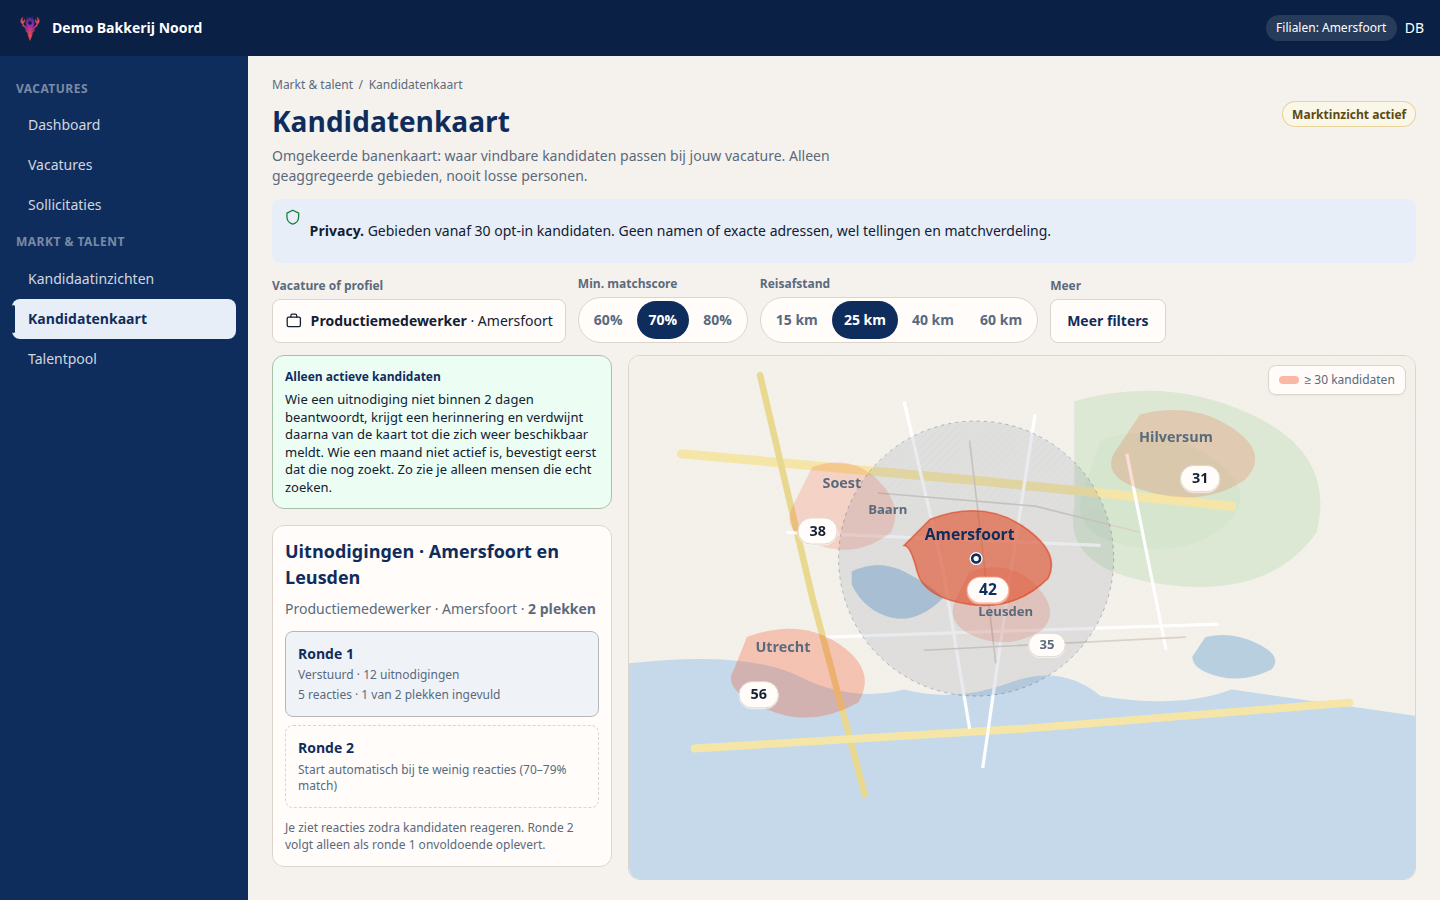
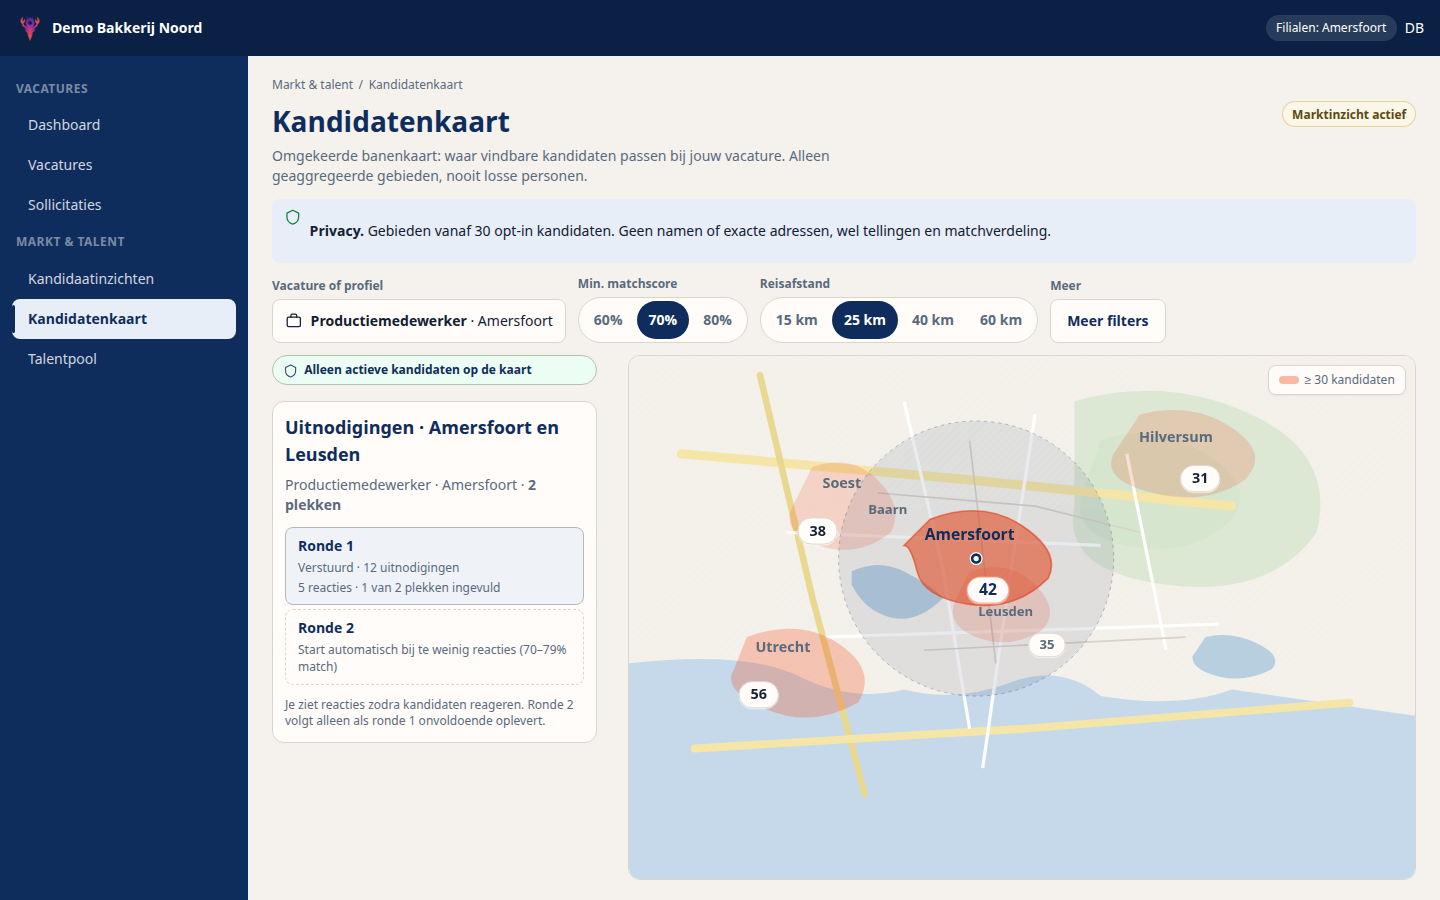
Fix invite-status desktop panel clipping with active-candidates chip.
Replace full explainer with one-line chip on B invite status list column;
tighter round spacing and list scroll fallback. Recaptured status PNGs.

Changed region(s): [[0.1875, 0.4044, 0.4375, 0.8711], [0.1875, 0.9022, 0.4062, 0.9644]]

diff --git a/docs/mockups/kandidatenkaart/pages/b-invite-status-vol.html b/docs/mockups/kandidatenkaart/pages/b-invite-status-vol.html
@@ -29,7 +29,7 @@
       <a class="wg-sidebar__link" href="#">Talentpool</a>
     </aside>
     <main class="wg-main">
-      <div class="kk-page">
+      <div class="kk-page kk-page--invite-status">
       <div class="kk-page__chrome kk-page__chrome--desktop">
       <nav class="kk-crumbs" aria-label="Kruimelpad">
         <span>Markt &amp; talent</span><span>/</span><span>Kandidatenkaart</span>
@@ -100,10 +100,10 @@
         </div>
       </div>
       <div class="kk-layout-b">
-        <div class="kk-layout-b__list"><div class="kk-active-sell">
-    <h3>Alleen actieve kandidaten</h3>
-    <p>Wie een uitnodiging niet binnen 2 dagen beantwoordt, krijgt een herinnering en verdwijnt daarna van de kaart tot die zich weer beschikbaar meldt. Wie een maand niet actief is, bevestigt eerst dat die nog zoekt. Zo zie je alleen mensen die echt zoeken.</p>
-  </div><div class="kk-panel kk-invite-status">
+        <div class="kk-layout-b__list kk-layout-b__list--invite-status"><p class="kk-active-chip">
+      <svg class="i" viewBox="0 0 24 24" aria-hidden="true"><path d="M12 3l8 4v5c0 5-3.5 9-8 10-4.5-1-8-5-8-10V7l8-4z"/></svg>
+      <span>Alleen actieve kandidaten op de kaart</span>
+    </p><div class="kk-panel kk-invite-status">
             <div class="kk-invite-status__head">
               <h2>Uitnodigingen · Amersfoort en Leusden</h2>
               <span class="kk-invite-status__badge">Vacature vol</span>
@@ -208,7 +208,7 @@
           
         </div></div>
       </div>
-      <div class="kk-mobile-sheet kk-mobile-sheet--b"><div class="kk-mobile-sheet__body kk-mobile-sheet__body--invite-status"><div class="kk-panel kk-invite-status">
+      <div class="kk-mobile-sheet kk-mobile-sheet--b kk-mobile-sheet--invite-status"><div class="kk-mobile-sheet__body kk-mobile-sheet__body--invite-status"><div class="kk-panel kk-invite-status">
             <div class="kk-invite-status__head">
               <h2>Uitnodigingen · Amersfoort en Leusden</h2>
               <span class="kk-invite-status__badge">Vacature vol</span>

diff --git a/docs/mockups/kandidatenkaart/pages/b-invite-status.html b/docs/mockups/kandidatenkaart/pages/b-invite-status.html
@@ -29,7 +29,7 @@
       <a class="wg-sidebar__link" href="#">Talentpool</a>
     </aside>
     <main class="wg-main">
-      <div class="kk-page">
+      <div class="kk-page kk-page--invite-status">
       <div class="kk-page__chrome kk-page__chrome--desktop">
       <nav class="kk-crumbs" aria-label="Kruimelpad">
         <span>Markt &amp; talent</span><span>/</span><span>Kandidatenkaart</span>
@@ -100,10 +100,10 @@
         </div>
       </div>
       <div class="kk-layout-b">
-        <div class="kk-layout-b__list"><div class="kk-active-sell">
-    <h3>Alleen actieve kandidaten</h3>
-    <p>Wie een uitnodiging niet binnen 2 dagen beantwoordt, krijgt een herinnering en verdwijnt daarna van de kaart tot die zich weer beschikbaar meldt. Wie een maand niet actief is, bevestigt eerst dat die nog zoekt. Zo zie je alleen mensen die echt zoeken.</p>
-  </div><div class="kk-panel kk-invite-status">
+        <div class="kk-layout-b__list kk-layout-b__list--invite-status"><p class="kk-active-chip">
+      <svg class="i" viewBox="0 0 24 24" aria-hidden="true"><path d="M12 3l8 4v5c0 5-3.5 9-8 10-4.5-1-8-5-8-10V7l8-4z"/></svg>
+      <span>Alleen actieve kandidaten op de kaart</span>
+    </p><div class="kk-panel kk-invite-status">
             <div class="kk-invite-status__head">
               <h2>Uitnodigingen · Amersfoort en Leusden</h2>
               
@@ -208,7 +208,7 @@
           
         </div></div>
       </div>
-      <div class="kk-mobile-sheet kk-mobile-sheet--b"><div class="kk-mobile-sheet__body kk-mobile-sheet__body--invite-status"><div class="kk-panel kk-invite-status">
+      <div class="kk-mobile-sheet kk-mobile-sheet--b kk-mobile-sheet--invite-status"><div class="kk-mobile-sheet__body kk-mobile-sheet__body--invite-status"><div class="kk-panel kk-invite-status">
             <div class="kk-invite-status__head">
               <h2>Uitnodigingen · Amersfoort en Leusden</h2>
               

diff --git a/docs/mockups/kandidatenkaart/shared/kk.css b/docs/mockups/kandidatenkaart/shared/kk.css
@@ -977,6 +977,35 @@ html.vp-mobile body {
     color: var(--muted);
 }
 
+.kk-active-chip {
+    display: flex;
+    align-items: center;
+    gap: 0.35rem;
+    margin: 0 0 var(--space-2);
+    padding: 0.4rem 0.65rem;
+    border-radius: var(--radius-pill);
+    border: 1px solid color-mix(in srgb, var(--success) 22%, var(--border));
+    background: var(--success-soft);
+    font-size: var(--text-xs);
+    font-weight: 600;
+    color: var(--brand);
+    line-height: 1.3;
+    flex-shrink: 0;
+}
+
+.kk-active-chip .i {
+    width: 0.95rem;
+    height: 0.95rem;
+    opacity: 0.85;
+}
+
+.kk-active-chip span {
+    min-width: 0;
+    white-space: nowrap;
+    overflow: hidden;
+    text-overflow: ellipsis;
+}
+
 .kk-activity-pill {
     display: inline-flex;
     align-items: center;
@@ -1591,6 +1620,27 @@ html.vp-desktop .kk-layout-b__list {
     display: flex;
     flex-direction: column;
     gap: var(--space-2);
+}
+
+html.vp-desktop .kk-layout-b__list--invite-status {
+    overflow-y: auto;
+    scrollbar-gutter: stable;
+}
+
+html.vp-desktop .kk-layout-b__list--invite-status .kk-invite-status {
+    flex: 0 0 auto;
+}
+
+html.vp-desktop .kk-layout-b__list--invite-status .kk-rounds {
+    gap: var(--space-1);
+}
+
+html.vp-desktop .kk-layout-b__list--invite-status .kk-round {
+    padding: var(--space-2) var(--space-3);
+}
+
+html.vp-desktop .kk-layout-b__list--invite-status .kk-note--status {
+    flex-shrink: 0;
 }
 
 html.vp-desktop .kk-active-sell {
